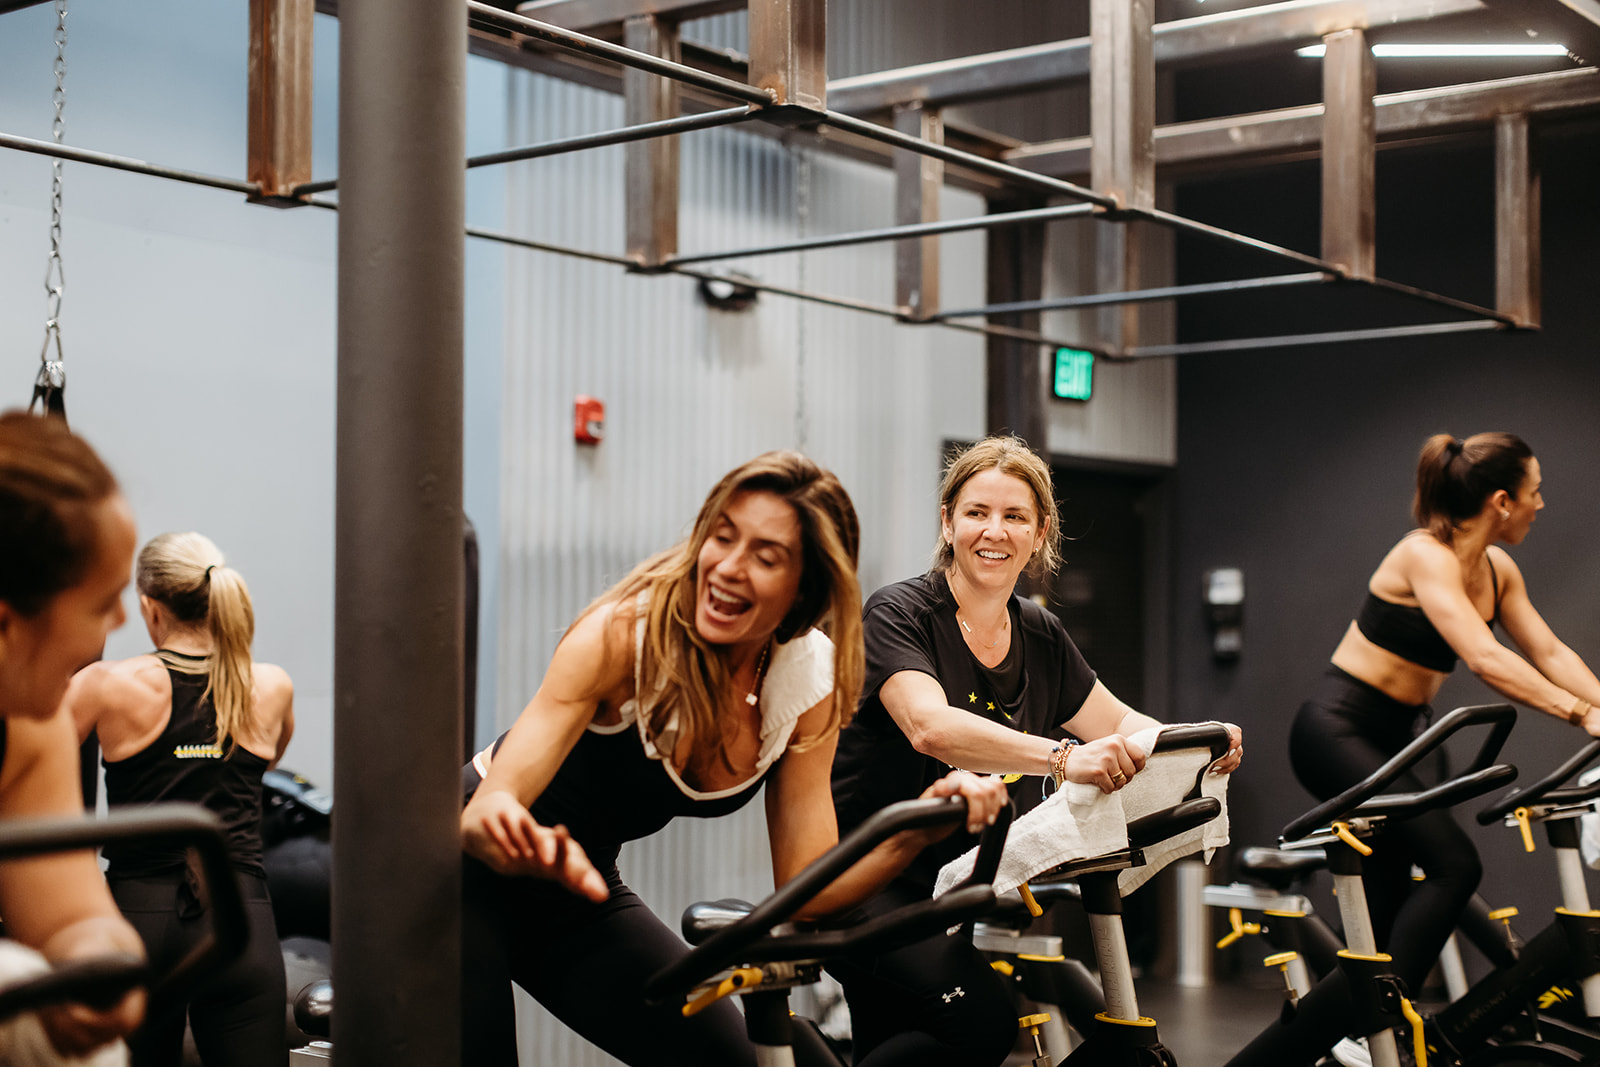
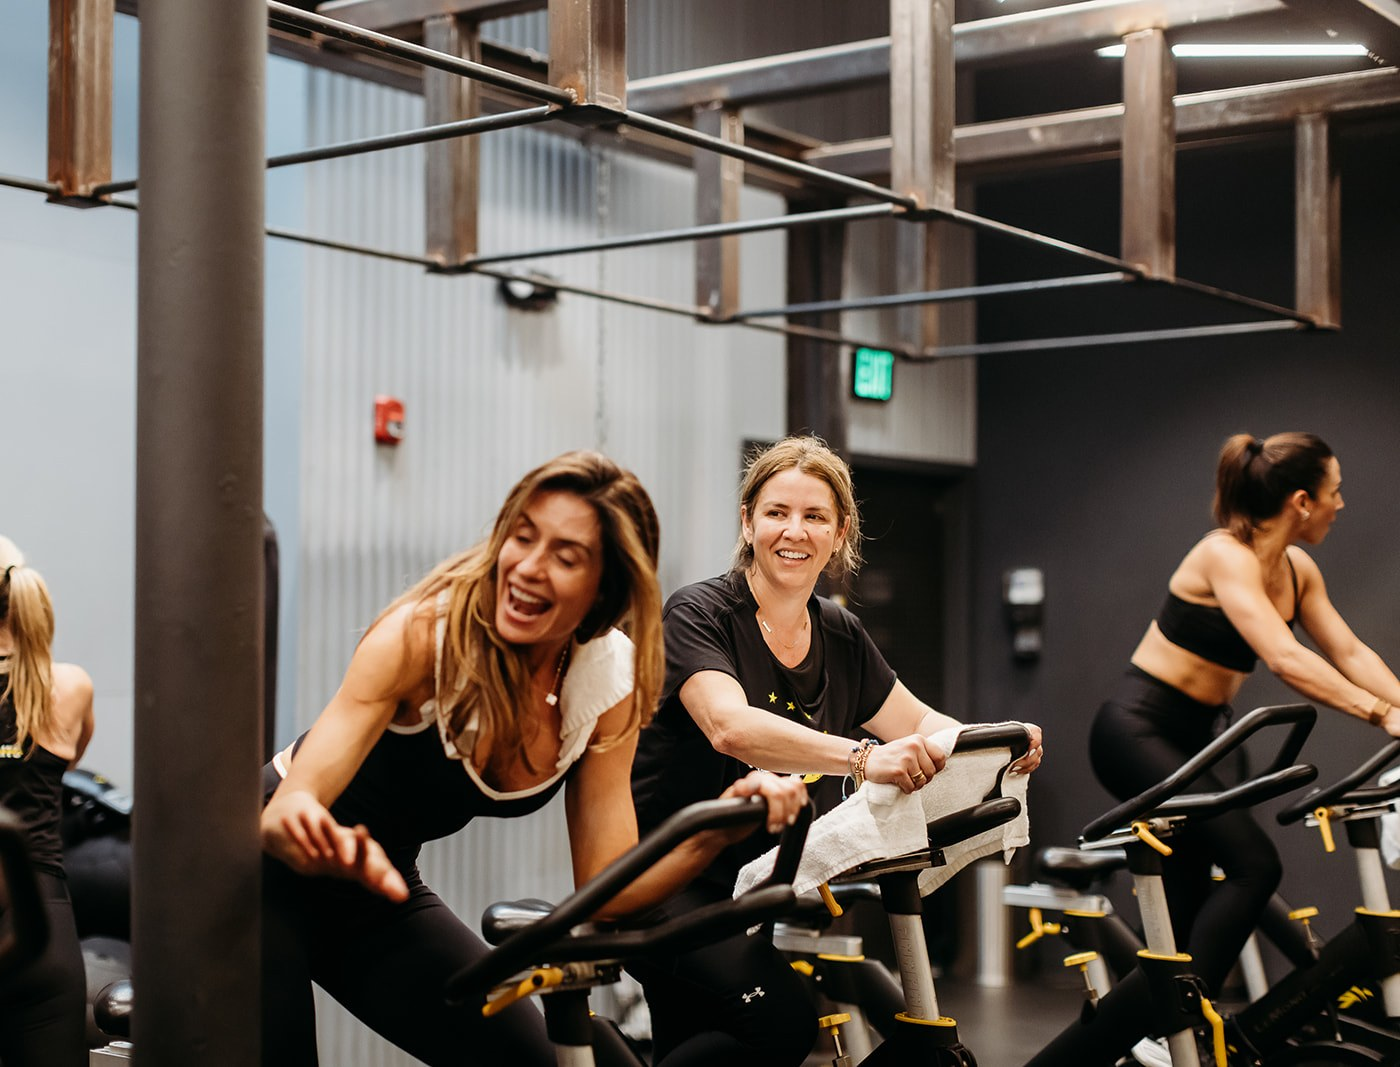
feat(studios): boxing is out, more imagery in — client model change
Client call (30/07): the heavy bags are being removed from the studios,
so boxing disappears from the site entirely; and in a few months the
Studios drop the program model to become a traditional studio (content
pivot pending, not executed yet). Online/ON work is paused per client.

- CG gallery: boxing shots removed, expanded from 3 to 4 rows (8 photos):
  barbell press, cardio jump under the mural, yellow stairs, smiling
  runner, bike floor, dumbbell in window light, nutrition spread, the
  Generation hug. Every frame full-size verified: no bags, no cones
  (773 left-cropped to drop an edge bag, 108 left-trimmed, 347 cropped
  square to lose bags on both edges)
- /studios index hero: heavy-bags wall replaced with the Generation
  arm-in-arm under the 54D mural (tiny background cone retouched out);
  FLOOR_ROWS boxing pair replaced with bike floor + cardio jump
- BRAND_ROWS fallback (MX/CO): boxing-bags photo replaced with the
  Generation hug; Hallandale alt de-boxed (photo swap pending its own
  gallery re-curation)
- boxing-focus.jpg and coach-boxing-pads.jpg deleted

diff --git a/apps/web/app/routes/studio-detail.tsx b/apps/web/app/routes/studio-detail.tsx
@@ -269,16 +269,16 @@ const GALLERY_ROWS: Record<string, GalleryRow[]> = {
     {
       photos: [
         {
-          src: cg("boxing-focus.jpg"),
-          alt: "Athlete in white boxing gloves working the heavy bag at 54D Coral Gables",
-          ratio: "1 / 1",
-          caption: "Boxing, coached",
-        },
-        {
           src: cg("barbell-press-gaze-vertical.jpg"),
           alt: "Athlete pressing a barbell overhead, eyes on the bar, at 54D Coral Gables",
-          ratio: "2 / 3",
+          ratio: "1 / 1",
           caption: "Strength, rep by rep",
+        },
+        {
+          src: cg("cardio-jump-mural-vertical.jpg"),
+          alt: "Athlete mid jump during the cardio block under the 54 mural",
+          ratio: "2 / 3",
+          caption: "Cardio, coached",
         },
       ],
     },
@@ -292,10 +292,10 @@ const GALLERY_ROWS: Record<string, GalleryRow[]> = {
           caption: "The yellow stairs",
         },
         {
-          src: cg("coach-boxing-pads.jpg"),
-          alt: "A 54D coach holding the bag for an athlete mid boxing round",
+          src: cg("runner-smile-vertical.jpg"),
+          alt: "A member smiling mid run across the training floor",
           ratio: "1 / 1",
-          caption: "Coaches on the floor",
+          caption: "Cardio with the group",
         },
       ],
     },
@@ -312,6 +312,23 @@ const GALLERY_ROWS: Record<string, GalleryRow[]> = {
           alt: "Athlete pressing a dumbbell overhead in natural window light",
           ratio: "1 / 1",
           caption: "54D iron, every rep",
+        },
+      ],
+    },
+    {
+      flip: true,
+      photos: [
+        {
+          src: cg("nutrition-spread-vertical.jpg"),
+          alt: "Fresh nutrition spread: salmon, tuna, vegetables and fruit on the 54D table",
+          ratio: "2 / 3",
+          caption: "Nutrition, part of the method",
+        },
+        {
+          src: cg("generation-hug.jpg"),
+          alt: "Two 54D members embracing after a session, both smiling",
+          ratio: "1 / 1",
+          caption: "Fifty-four days together",
         },
       ],
     },
@@ -338,7 +355,7 @@ const GALLERY_ROWS: Record<string, GalleryRow[]> = {
       photos: [
         {
           src: hl("coach-headset.jpg"),
-          alt: "54D coach with a headset leading cardio between the boxing bags",
+          alt: "54D coach with a headset leading the cardio block",
           ratio: "2 / 3",
           caption: "Coaches on the floor",
         },
@@ -364,10 +381,10 @@ const BRAND_ROWS: GalleryRow[] = [
         caption: "The 54D method on the floor",
       },
       {
-        src: "images/brand/coach-class-boxing-bags-vertical.jpg",
-        alt: "54D coach standing over a mat class in front of hanging boxing bags",
+        src: "images/studios/coral-gables/generation-hug.jpg",
+        alt: "Two 54D members embracing after a session, both smiling",
         ratio: "1 / 1",
-        caption: "Small groups, coached live",
+        caption: "The Generation, together",
       },
     ],
   },

diff --git a/apps/web/app/routes/studios.tsx b/apps/web/app/routes/studios.tsx
@@ -92,16 +92,16 @@ const FLOOR_ROWS: { flip?: boolean; photos: [FloorPhoto, FloorPhoto] }[] = [
   {
     photos: [
       {
-        src: "images/brand/gym-structure-heavy-bags-wide.jpg",
-        alt: "Industrial 54D gym structure with heavy bags hanging from chains over the training floor",
+        src: "images/studios/coral-gables/bike-floor-laughter.jpg",
+        alt: "Two athletes laughing between rounds on the 54D bike floor",
         ratio: "3 / 2",
-        caption: "The floor, the rig, the bags",
+        caption: "The bike floor",
       },
       {
-        src: "images/brand/coach-class-boxing-bags-vertical.jpg",
-        alt: "54D coach standing over a mat class in front of a row of hanging boxing bags",
+        src: "images/studios/coral-gables/cardio-jump-mural-vertical.jpg",
+        alt: "Athlete mid jump during the cardio block under the 54D mural",
         ratio: "1 / 1",
-        caption: "Coaches in the room",
+        caption: "Cardio, coached live",
       },
     ],
   },
@@ -139,8 +139,8 @@ export default function Studios() {
       <header className="hero hero-inner">
         <div className="hero-media">
           <img
-            src={asset("images/brand/gym-structure-heavy-bags-wide.jpg")}
-            alt="The 54D training floor: architectural steel structure and heavy bags"
+            src={asset("images/brand/generation-line-54d-mural-wide.jpg")}
+            alt="A 54D Generation arm in arm with their coach under the 54D mural"
           />
         </div>
         <div className="hero-veil" />
